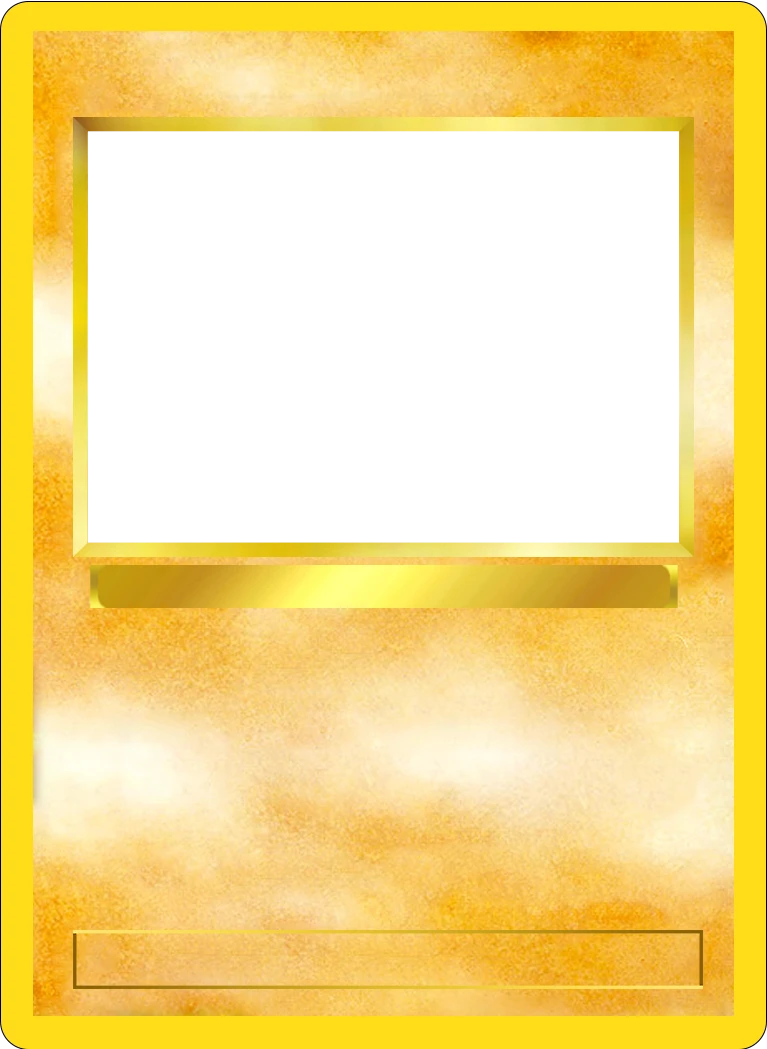
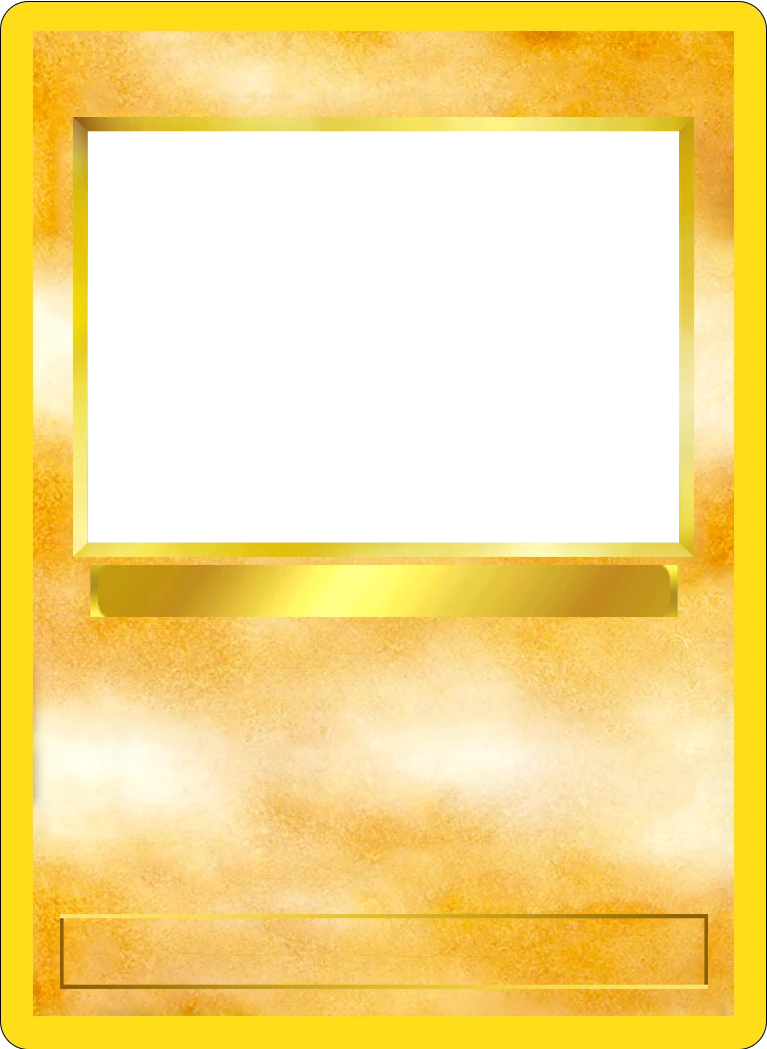
changed card_blanks, smaller style fixes

diff --git a/assets/css/dialog.css b/assets/css/dialog.css
@@ -11,12 +11,24 @@
 }
 
 .pokemon-dialog[open] {
-    animation: dialog-in 0.35s ease;
+    animation: dialog-in 1s cubic-bezier(0.15, 1, 0.5, 1);
 }
 
 .pokemon-dialog::backdrop {
     background: rgba(0, 0, 0, 0.75);
     backdrop-filter: blur(6px);
+}
+
+@keyframes dialog-in {
+    0% {
+        opacity: 0;
+        transform: translateY(2rem) scale(0.75);
+    }
+
+    100% {
+        opacity: 1;
+        transform: none;
+    }
 }
 
 .dialog-content {
@@ -36,15 +48,20 @@
     position: relative;
     width: min(100%, 13.4rem);
     aspect-ratio: 7 / 11;
-    margin-bottom: -4rem;
+    margin-bottom: -3.5rem;
     border-radius: 0.75rem;
     color: var(--card-text);
     box-shadow:
         0 0 1.5rem color-mix(in srgb, var(--glow) 70%, transparent),
         0 0 4rem color-mix(in srgb, var(--glow) 40%, transparent);
-    transform: perspective(37rem) rotateX(58deg);
+    transform: perspective(37rem) rotateX(53deg);
     transform-style: preserve-3d;
     animation: glow-pulse 6s ease-in-out infinite;
+
+    @media (min-width: 480px) {
+        transform: perspective(37rem) rotateX(60deg);
+        margin-bottom: -4.5rem;
+    }
 }
 
 .dialog-card-blank {
@@ -96,7 +113,7 @@
 
 .dialog-card-name {
     position: absolute;
-    top: 88.5%;
+    top: 87.5%;
     left: 10%;
     right: 10%;
     height: 5.5%;
@@ -107,12 +124,11 @@
     gap: 0.5rem;
     font-size: 1.1rem;
     font-weight: 700;
-    line-height: 1;
     text-transform: capitalize;
 
     @media (min-width: 480px) {
-        top: 88.8%;
-        font-size: 1.3rem;
+        top: 87.5%;
+        font-size: 1.4rem;
     }
 }
 
@@ -173,12 +189,17 @@
 .hologram-types {
     position: absolute;
     top: 22%;
-    left: -27%;
-    right: -27%;
+    left: -30%;
+    right: -30%;
     display: flex;
     justify-content: space-between;
     padding: 0;
     list-style: none;
+
+    @media (min-width: 480px) {
+        left: -27%;
+        right: -27%;
+    }
 }
 
 .hologram-type {
@@ -223,7 +244,7 @@
 
 .dialog-card-stage {
     position: absolute;
-    top: 53.8%;
+    top: 54%;
     left: 11.7%;
     right: 11.6%;
     height: 4%;
@@ -231,8 +252,6 @@
     display: flex;
     justify-content: center;
     align-items: center;
-    border-radius: 0.3rem;
-    background: linear-gradient(100deg, #c9a227, #f7e55a 45%, #d9a62a);
     color: var(--color-main);
     font-size: 0.85rem;
     font-style: italic;
@@ -305,8 +324,8 @@
 .prev-button,
 .next-button {
     position: relative;
-    width: 3rem;
-    height: 3rem;
+    width: 4rem;
+    height: 4rem;
     border: none;
     background: transparent;
     color: color-mix(in srgb, var(--color-text-main) 90%, transparent);
@@ -354,9 +373,12 @@
     font-weight: 700;
     letter-spacing: 0.2em;
     text-indent: 0.2em;
-    text-transform: uppercase;
     cursor: pointer;
     transition: all 0.2s ease;
+
+    @media (min-width: 480px) {
+        font-size: 1rem;
+    }
 }
 
 .close-dialog:hover {
@@ -376,18 +398,6 @@
     right: 0;
     transform: translateY(-50%);
     pointer-events: none;
-}
-
-@keyframes dialog-in {
-    0% {
-        opacity: 0;
-        transform: translateY(1rem) scale(0.96);
-    }
-
-    100% {
-        opacity: 1;
-        transform: none;
-    }
 }
 
 @keyframes glow-pulse {

diff --git a/assets/css/grid.css b/assets/css/grid.css
@@ -161,34 +161,32 @@
 
 .card-species-bar {
     position: absolute;
-    top: 53.8%;
+    top: 54%;
     left: 11.7%;
     right: 11.6%;
     height: 4%;
     display: flex;
     justify-content: center;
     align-items: center;
-    border-radius: 0.3rem;
-    background: linear-gradient(100deg, #c9a227, #f7e55a 45%, #d9a62a);
     z-index: 3;
 }
 
 .pokemon-category {
     color: var(--color-main);
-    font-size: 0.75rem;
+    font-size: 0.78rem;
     font-weight: 700;
     font-style: italic;
 }
 
 .card-stats {
     position: absolute;
-    top: 60%;
+    top: 59.7%;
     left: 14%;
     right: 14%;
     z-index: 3;
     display: flex;
     flex-direction: column;
-    gap: 0.5rem;
+    gap: 0.45rem;
 }
 
 .stat-row {
@@ -197,7 +195,7 @@
     gap: 0.4rem;
     height: 0.7rem;
     color: var(--card-text);
-    font-size: 0.65rem;
+    font-size: 0.66rem;
     font-weight: 700;
     line-height: 1;
 }
@@ -229,7 +227,7 @@
 
 .card-size {
     position: absolute;
-    top: 88.5%;
+    top: 87.7%;
     left: 10%;
     right: 10%;
     height: 5.5%;
@@ -238,7 +236,7 @@
     align-items: center;
     justify-content: center;
     color: var(--card-text);
-    font-size: 0.75rem;
+    font-size: 0.8rem;
     font-weight: 700;
 }
 

diff --git a/index.html b/index.html
@@ -49,7 +49,7 @@
       <dialog class="pokemon-dialog" data-id="dialog" aria-label="Pokémon details">
         <div class="dialog-content" data-id="dialog-content"></div>
 
-        <button type="button" class="close-dialog" data-id="close-dialog-button">Close</button>
+        <button type="button" class="close-dialog" data-id="close-dialog-button">CLOSE</button>
 
         <div class="dialog-nav">
           <button type="button" class="prev-button" data-id="prev-button" aria-label="Previous Pokémon"></button>
